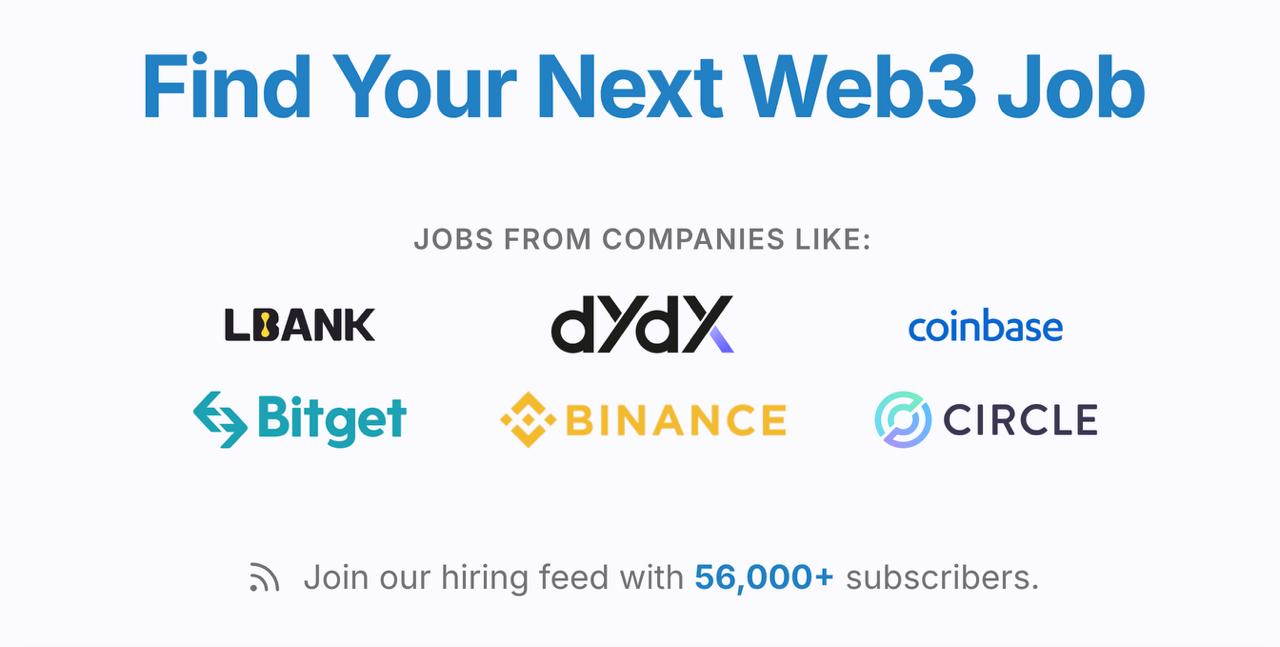
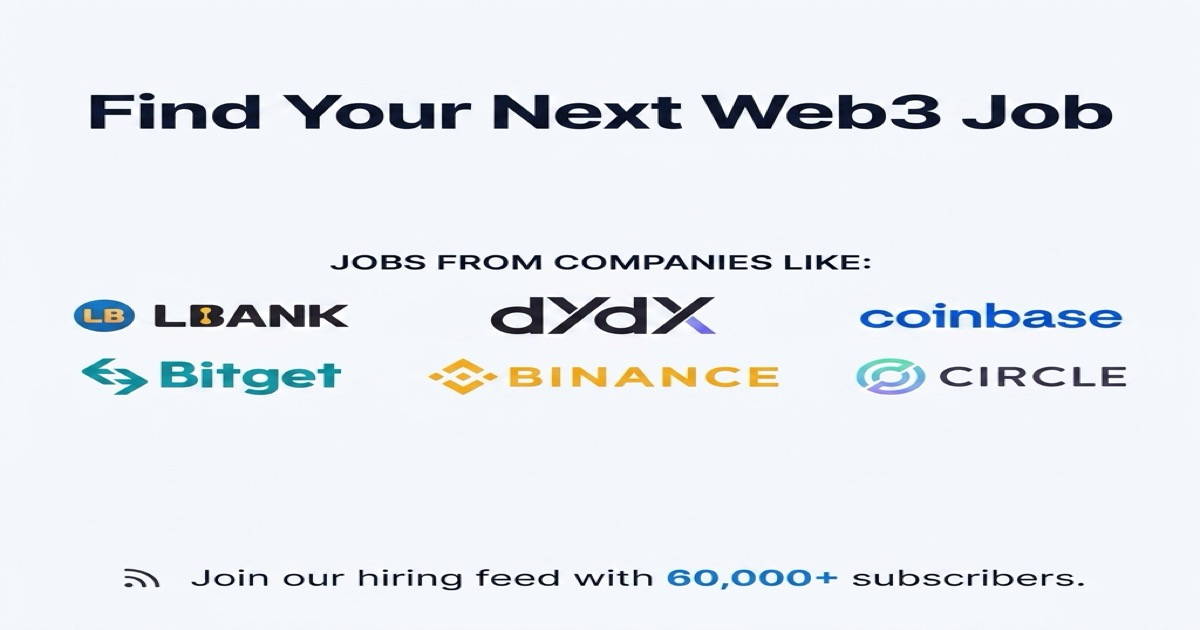
Optimize build speed, clean job titles, update OG image to 60k
- Add output:standalone + experimental.workerThreads to next.config
- Limit generateStaticParams: top 20 companies only, skip glossary terms
- Clean job titles: strip brackets, parentheses, and dash suffixes
- Update OG image subscriber count from 56,000+ to 60,000+
- Add Dockerfile for direct Cloud Run deployment

diff --git a/src/lib/jobs.ts b/src/lib/jobs.ts
@@ -12,10 +12,28 @@ const CACHE_PATH = path.join(process.cwd(), 'content/jobs-cache.json');
  * The cache is refreshed every 8 hours by GitHub Actions (refresh-jobs-cache.yml).
  * No RSS fetching happens at runtime.
  */
+/**
+ * Cleans job titles by removing parenthesized/bracketed suffixes
+ * and everything after " - " dashes.
+ * e.g. "Business Development Manager (Acquiring)" → "Business Development Manager"
+ *      "Engineering Manager - DevX" → "Engineering Manager"
+ */
+function cleanJobTitle(title: string): string {
+  return title
+    .replace(/\s*\(.*?\)\s*/g, ' ')  // Remove (anything)
+    .replace(/\s*\[.*?\]\s*/g, ' ')   // Remove [anything]
+    .replace(/\s*-\s+.*$/, '')        // Remove " - anything" at end
+    .replace(/\s+/g, ' ')            // Collapse whitespace
+    .trim();
+}
+
 export async function getJobs(): Promise<Job[]> {
   try {
     const data = fs.readFileSync(CACHE_PATH, 'utf-8');
-    const jobs: Job[] = JSON.parse(data);
+    const jobs: Job[] = JSON.parse(data).map((job: Job) => ({
+      ...job,
+      title: cleanJobTitle(job.title),
+    }));
 
     // Apply 30-day freshness filter
     const thirtyDaysAgo = new Date();

diff --git a/src/app/companies/[slug]/page.tsx b/src/app/companies/[slug]/page.tsx
@@ -15,9 +15,13 @@ export const revalidate = 3600;
 
 export async function generateStaticParams() {
   const companies = await getCompanies();
-  return companies.map((company) => ({
-    slug: company.slug,
-  }));
+  // Only pre-render top 20 companies; rest are built on-demand via ISR
+  return companies
+    .sort((a, b) => b.jobCount - a.jobCount)
+    .slice(0, 20)
+    .map((company) => ({
+      slug: company.slug,
+    }));
 }
 
 export async function generateMetadata({ params }: { params: { slug: string } }): Promise<Metadata> {

diff --git a/src/app/[slug]/page.tsx b/src/app/[slug]/page.tsx
@@ -25,10 +25,10 @@ type ArticlePageProps = {
 
 export async function generateStaticParams() {
   const articles = await getAllArticles();
-  const terms = await getAllTerms();
   const resources = getAllResourcePages();
+  // Only pre-render articles + resources at build time.
+  // Glossary terms (157 pages) are generated on-demand via ISR.
   return [
-    ...terms.map((term) => ({ slug: term.slug })),
     ...articles.map((article) => ({ slug: article.slug })),
     ...resources.map((r) => ({ slug: r.seo.canonicalSlug })),
   ];

diff --git a/src/next.config.ts b/src/next.config.ts
@@ -4,6 +4,10 @@ import type {NextConfig} from 'next';
 const nextConfig: NextConfig = {
   /* config options here */
   trailingSlash: false,
+  output: 'standalone',
+  experimental: {
+    workerThreads: true,
+  },
 
   async redirects() {
     return [
